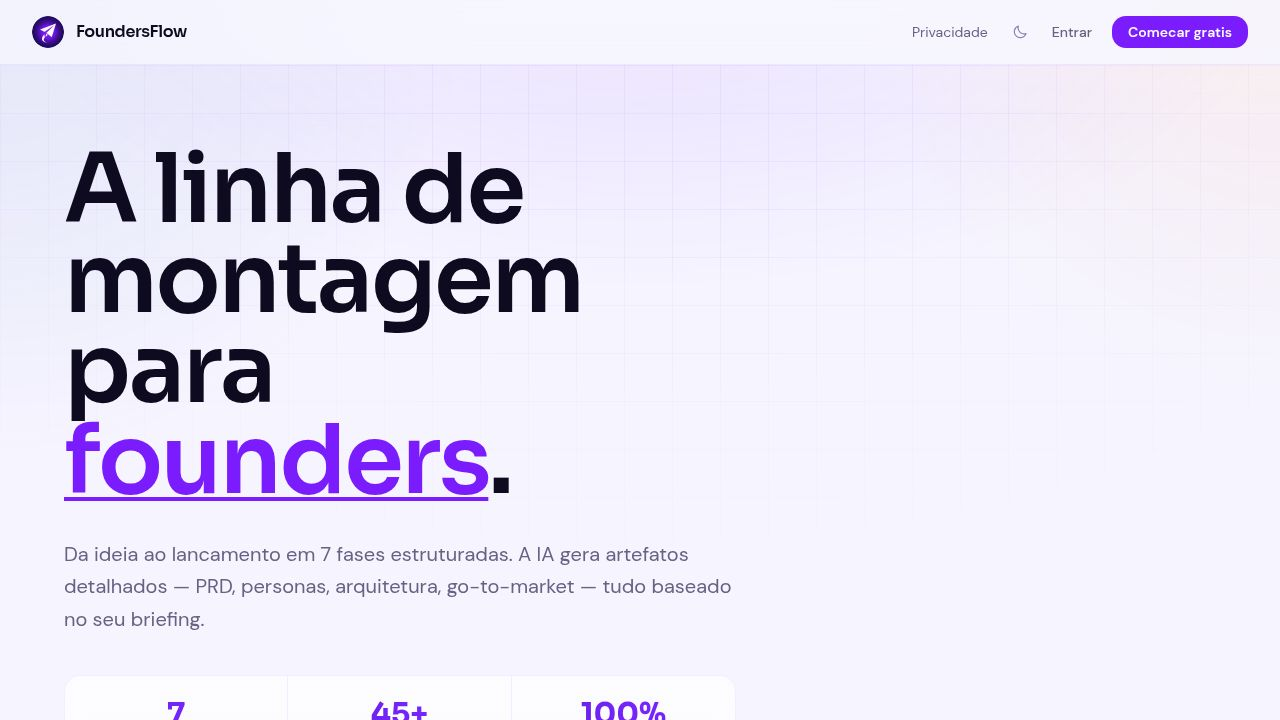
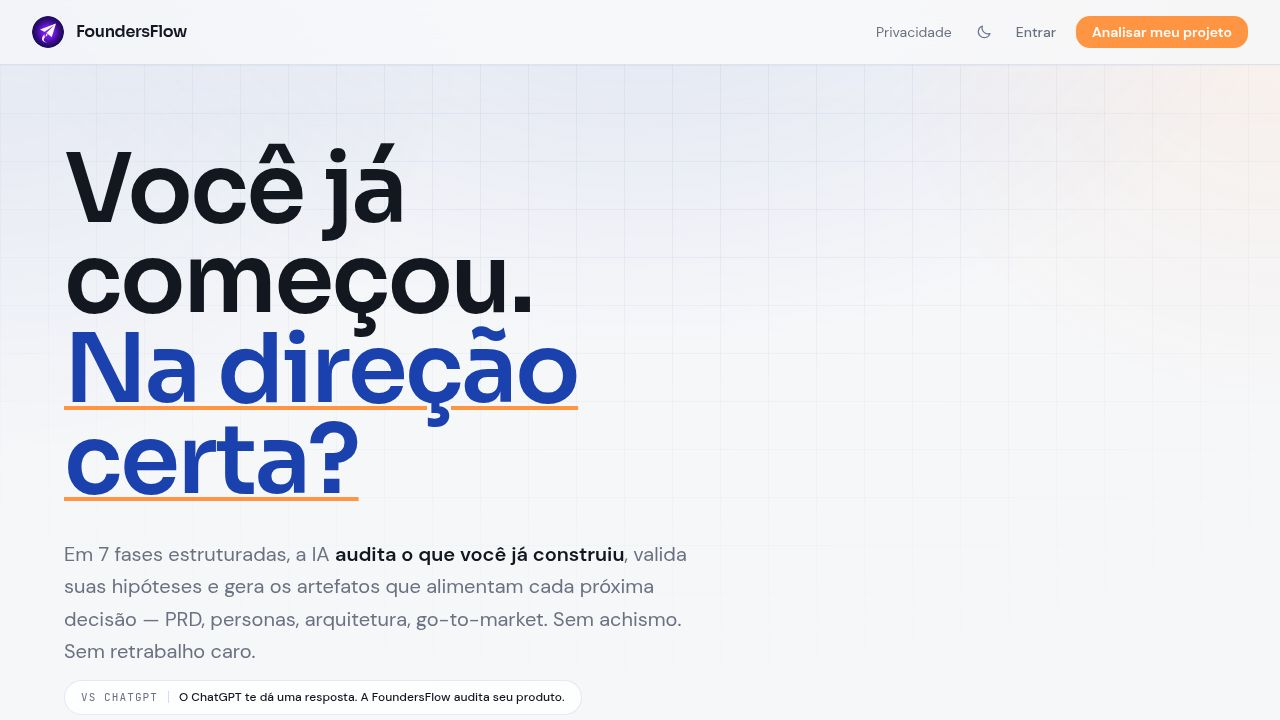
Update project colors to align with brand guidelines and remove purple
Remove hardcoded purple and other off-brand colors from CSS and components, replacing them with a brand-aligned palette of blues and orange.

Replit-Commit-Author: Agent
Replit-Commit-Session-Id: a0cde3f1-0faa-4ce1-8439-941c9d10ad52
Replit-Commit-Checkpoint-Type: full_checkpoint
Replit-Commit-Event-Id: 4b28e4d1-5cd4-42ed-b1c4-4741121c900a
Replit-Commit-Screenshot-Url: https://storage.googleapis.com/screenshot-production-us-central1/8a58deda-770c-4435-96f7-d8ecbfa38cac/a0cde3f1-0faa-4ce1-8439-941c9d10ad52/AOSzuev
Replit-Helium-Checkpoint-Created: true

diff --git a/artifacts/fabrica/src/index.css b/artifacts/fabrica/src/index.css
@@ -241,33 +241,35 @@
 }
 
 /* ============================================================
-   PHASE THEMES — shared accent color (both modes)
+   PHASE THEMES — brand-aligned palette only (azul primário, azul profundo, laranja accent).
+   Sem roxo/verde/pink. Diferenciação por shade de azul; Fase 7 (Deploy) em laranja accent
+   como sinal de celebração/conversão.
    ============================================================ */
-[data-phase="1"] { --phase-accent: #7724FD; }
-[data-phase="2"] { --phase-accent: #2D9CDB; }
-[data-phase="3"] { --phase-accent: #EF4444; }
-[data-phase="4"] { --phase-accent: #00C2A8; }
-[data-phase="5"] { --phase-accent: #F59E0B; }
-[data-phase="6"] { --phase-accent: #EC4899; }
-[data-phase="7"] { --phase-accent: #22D3A0; }
+[data-phase="1"] { --phase-accent: #1A3FAB; }  /* Ideia      → azul primário */
+[data-phase="2"] { --phase-accent: #3454BD; }  /* PRD        → azul médio */
+[data-phase="3"] { --phase-accent: #0F1F5C; }  /* Segurança  → azul profundo */
+[data-phase="4"] { --phase-accent: #1A3FAB; }  /* Spec       → azul primário */
+[data-phase="5"] { --phase-accent: #3454BD; }  /* Implement. → azul médio */
+[data-phase="6"] { --phase-accent: #0F1F5C; }  /* Teste      → azul profundo */
+[data-phase="7"] { --phase-accent: #FF8C42; }  /* Deploy     → laranja accent */
 
-/* Light mode phase soft/glow/gradient/border */
-[data-phase="1"] { --phase-accent-soft: rgba(119,36,253,0.08); --phase-glow: rgba(119,36,253,0.10); --phase-gradient: linear-gradient(160deg, rgba(119,36,253,0.04) 0%, #F5F4FF 100%); --phase-border: rgba(119,36,253,0.18); }
-[data-phase="2"] { --phase-accent-soft: rgba(45,156,219,0.08); --phase-glow: rgba(45,156,219,0.10); --phase-gradient: linear-gradient(160deg, rgba(45,156,219,0.04) 0%, #F5F4FF 100%); --phase-border: rgba(45,156,219,0.18); }
-[data-phase="3"] { --phase-accent-soft: rgba(239,68,68,0.08); --phase-glow: rgba(239,68,68,0.10); --phase-gradient: linear-gradient(160deg, rgba(239,68,68,0.04) 0%, #F5F4FF 100%); --phase-border: rgba(239,68,68,0.18); }
-[data-phase="4"] { --phase-accent-soft: rgba(0,194,168,0.08); --phase-glow: rgba(0,194,168,0.10); --phase-gradient: linear-gradient(160deg, rgba(0,194,168,0.04) 0%, #F5F4FF 100%); --phase-border: rgba(0,194,168,0.18); }
-[data-phase="5"] { --phase-accent-soft: rgba(245,158,11,0.08); --phase-glow: rgba(245,158,11,0.10); --phase-gradient: linear-gradient(160deg, rgba(245,158,11,0.04) 0%, #F5F4FF 100%); --phase-border: rgba(245,158,11,0.18); }
-[data-phase="6"] { --phase-accent-soft: rgba(236,72,153,0.08); --phase-glow: rgba(236,72,153,0.10); --phase-gradient: linear-gradient(160deg, rgba(236,72,153,0.04) 0%, #F5F4FF 100%); --phase-border: rgba(236,72,153,0.18); }
-[data-phase="7"] { --phase-accent-soft: rgba(34,211,160,0.08); --phase-glow: rgba(34,211,160,0.10); --phase-gradient: linear-gradient(160deg, rgba(34,211,160,0.04) 0%, #F5F4FF 100%); --phase-border: rgba(34,211,160,0.18); }
+/* Light mode phase soft/glow/gradient/border — todos sobre cool off-white #EEF1FB */
+[data-phase="1"] { --phase-accent-soft: rgba(26,63,171,0.08);  --phase-glow: rgba(26,63,171,0.10);  --phase-gradient: linear-gradient(160deg, rgba(26,63,171,0.04) 0%, #EEF1FB 100%); --phase-border: rgba(26,63,171,0.18); }
+[data-phase="2"] { --phase-accent-soft: rgba(52,84,189,0.08);  --phase-glow: rgba(52,84,189,0.10);  --phase-gradient: linear-gradient(160deg, rgba(52,84,189,0.04) 0%, #EEF1FB 100%); --phase-border: rgba(52,84,189,0.18); }
+[data-phase="3"] { --phase-accent-soft: rgba(15,31,92,0.08);   --phase-glow: rgba(15,31,92,0.10);   --phase-gradient: linear-gradient(160deg, rgba(15,31,92,0.04)  0%, #EEF1FB 100%); --phase-border: rgba(15,31,92,0.20);  }
+[data-phase="4"] { --phase-accent-soft: rgba(26,63,171,0.08);  --phase-glow: rgba(26,63,171,0.10);  --phase-gradient: linear-gradient(160deg, rgba(26,63,171,0.04) 0%, #EEF1FB 100%); --phase-border: rgba(26,63,171,0.18); }
+[data-phase="5"] { --phase-accent-soft: rgba(52,84,189,0.08);  --phase-glow: rgba(52,84,189,0.10);  --phase-gradient: linear-gradient(160deg, rgba(52,84,189,0.04) 0%, #EEF1FB 100%); --phase-border: rgba(52,84,189,0.18); }
+[data-phase="6"] { --phase-accent-soft: rgba(15,31,92,0.08);   --phase-glow: rgba(15,31,92,0.10);   --phase-gradient: linear-gradient(160deg, rgba(15,31,92,0.04)  0%, #EEF1FB 100%); --phase-border: rgba(15,31,92,0.20);  }
+[data-phase="7"] { --phase-accent-soft: rgba(255,140,66,0.08); --phase-glow: rgba(255,140,66,0.12); --phase-gradient: linear-gradient(160deg, rgba(255,140,66,0.05) 0%, #EEF1FB 100%); --phase-border: rgba(255,140,66,0.25); }
 
-/* Dark mode phase overrides (deep gradients and stronger glows) */
-.dark[data-phase="1"] { --phase-accent-soft: rgba(119,36,253,0.15); --phase-glow: rgba(119,36,253,0.28); --phase-gradient: linear-gradient(160deg, #2B0E6D 0%, #0D0B14 65%); --phase-border: rgba(119,36,253,0.35); }
-.dark[data-phase="2"] { --phase-accent-soft: rgba(45,156,219,0.15); --phase-glow: rgba(45,156,219,0.28); --phase-gradient: linear-gradient(160deg, #0A2540 0%, #0D0B14 65%); --phase-border: rgba(45,156,219,0.35); }
-.dark[data-phase="3"] { --phase-accent-soft: rgba(239,68,68,0.15); --phase-glow: rgba(239,68,68,0.28); --phase-gradient: linear-gradient(160deg, #3D0A0A 0%, #0D0B14 65%); --phase-border: rgba(239,68,68,0.35); }
-.dark[data-phase="4"] { --phase-accent-soft: rgba(0,194,168,0.15); --phase-glow: rgba(0,194,168,0.28); --phase-gradient: linear-gradient(160deg, #003D35 0%, #0D0B14 65%); --phase-border: rgba(0,194,168,0.35); }
-.dark[data-phase="5"] { --phase-accent-soft: rgba(245,158,11,0.15); --phase-glow: rgba(245,158,11,0.28); --phase-gradient: linear-gradient(160deg, #2D1A00 0%, #0D0B14 65%); --phase-border: rgba(245,158,11,0.35); }
-.dark[data-phase="6"] { --phase-accent-soft: rgba(236,72,153,0.15); --phase-glow: rgba(236,72,153,0.28); --phase-gradient: linear-gradient(160deg, #3D0A25 0%, #0D0B14 65%); --phase-border: rgba(236,72,153,0.35); }
-.dark[data-phase="7"] { --phase-accent-soft: rgba(34,211,160,0.15); --phase-glow: rgba(34,211,160,0.28); --phase-gradient: linear-gradient(160deg, #003D20 0%, #0D0B14 65%); --phase-border: rgba(34,211,160,0.35); }
+/* Dark mode phase overrides — gradientes em azul profundo brand */
+.dark[data-phase="1"] { --phase-accent-soft: rgba(26,63,171,0.18);  --phase-glow: rgba(74,117,232,0.28); --phase-gradient: linear-gradient(160deg, #0F1F5C 0%, #08102B 65%); --phase-border: rgba(74,117,232,0.35); }
+.dark[data-phase="2"] { --phase-accent-soft: rgba(52,84,189,0.18);  --phase-glow: rgba(74,117,232,0.28); --phase-gradient: linear-gradient(160deg, #122468 0%, #08102B 65%); --phase-border: rgba(74,117,232,0.35); }
+.dark[data-phase="3"] { --phase-accent-soft: rgba(15,31,92,0.30);   --phase-glow: rgba(26,63,171,0.30);  --phase-gradient: linear-gradient(160deg, #0A1746 0%, #08102B 65%); --phase-border: rgba(74,117,232,0.35); }
+.dark[data-phase="4"] { --phase-accent-soft: rgba(26,63,171,0.18);  --phase-glow: rgba(74,117,232,0.28); --phase-gradient: linear-gradient(160deg, #0F1F5C 0%, #08102B 65%); --phase-border: rgba(74,117,232,0.35); }
+.dark[data-phase="5"] { --phase-accent-soft: rgba(52,84,189,0.18);  --phase-glow: rgba(74,117,232,0.28); --phase-gradient: linear-gradient(160deg, #122468 0%, #08102B 65%); --phase-border: rgba(74,117,232,0.35); }
+.dark[data-phase="6"] { --phase-accent-soft: rgba(15,31,92,0.30);   --phase-glow: rgba(26,63,171,0.30);  --phase-gradient: linear-gradient(160deg, #0A1746 0%, #08102B 65%); --phase-border: rgba(74,117,232,0.35); }
+.dark[data-phase="7"] { --phase-accent-soft: rgba(255,140,66,0.18); --phase-glow: rgba(255,140,66,0.30); --phase-gradient: linear-gradient(160deg, #3D1F0A 0%, #08102B 65%); --phase-border: rgba(255,140,66,0.40); }
 
 /* ============================================================
    BASE LAYER

diff --git a/artifacts/fabrica/src/components/app-sidebar.tsx b/artifacts/fabrica/src/components/app-sidebar.tsx
@@ -5,9 +5,10 @@ import { usePlan } from "@/hooks/usePlan";
 import { PHASES } from "@/lib/constants";
 import { ThemeToggle } from "@/components/theme-toggle";
 
+// Brand-aligned phase palette — sem roxo/verde/pink. Shades de azul + laranja no Deploy.
 const PHASE_COLORS: Record<number, string> = {
-  1: "#7724FD", 2: "#2D9CDB", 3: "#EF4444",
-  4: "#00C2A8", 5: "#F59E0B", 6: "#EC4899", 7: "#22D3A0",
+  1: "#1A3FAB", 2: "#3454BD", 3: "#0F1F5C",
+  4: "#1A3FAB", 5: "#3454BD", 6: "#0F1F5C", 7: "#FF8C42",
 };
 
 interface PhaseStatus {
@@ -95,7 +96,7 @@ export function AppSidebar({
               const isDone = status === "completed";
               const isActive = phaseNum === currentPhase;
               const isLocked = status === "locked" && !isActive;
-              const color = PHASE_COLORS[phaseNum] ?? "#7724FD";
+              const color = PHASE_COLORS[phaseNum] ?? "#1A3FAB";
               const isLast = i === PHASES.length - 1;
 
               return (

diff --git a/artifacts/fabrica/src/pages/compliance.tsx b/artifacts/fabrica/src/pages/compliance.tsx
@@ -16,7 +16,8 @@ function Badge({ color, children }: { color: string; children: React.ReactNode }
     blue:   "bg-blue-100 text-blue-800 dark:bg-blue-900/30 dark:text-blue-300",
     yellow: "bg-yellow-100 text-yellow-800 dark:bg-yellow-900/30 dark:text-yellow-300",
     red:    "bg-red-100 text-red-800 dark:bg-red-900/30 dark:text-red-300",
-    purple: "bg-purple-100 text-purple-800 dark:bg-purple-900/30 dark:text-purple-300",
+    // brand: "purple" remapeado para azul primário (sem roxo no design system)
+    purple: "bg-blue-100 text-blue-800 dark:bg-blue-900/30 dark:text-blue-300",
     gray:   "bg-muted text-muted-foreground",
   };
   return (
@@ -319,7 +320,7 @@ function ThreatModelTab() {
   const threats = [
     {
       category: "S — Spoofing",
-      color: "border-purple-400",
+      color: "border-blue-400",
       badge: <Badge color="purple">SPOOFING</Badge>,
       threats: [
         {
